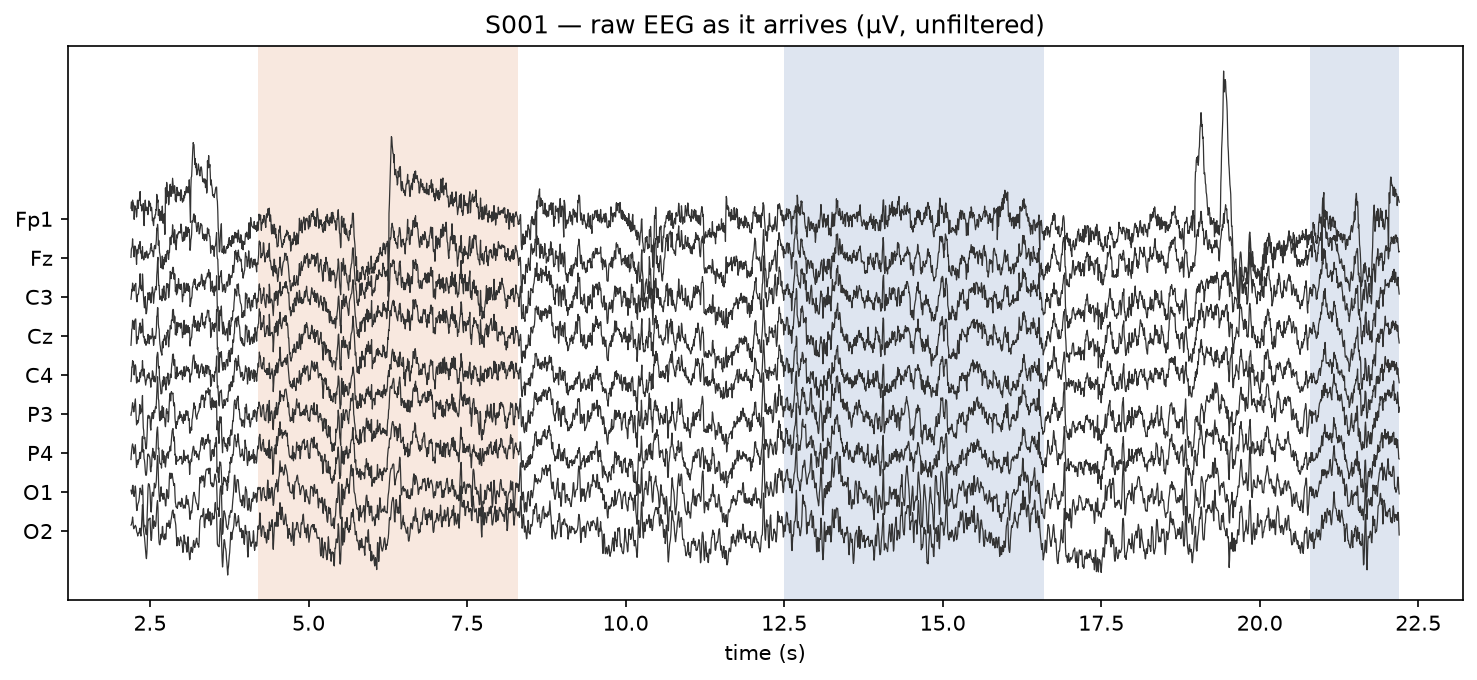
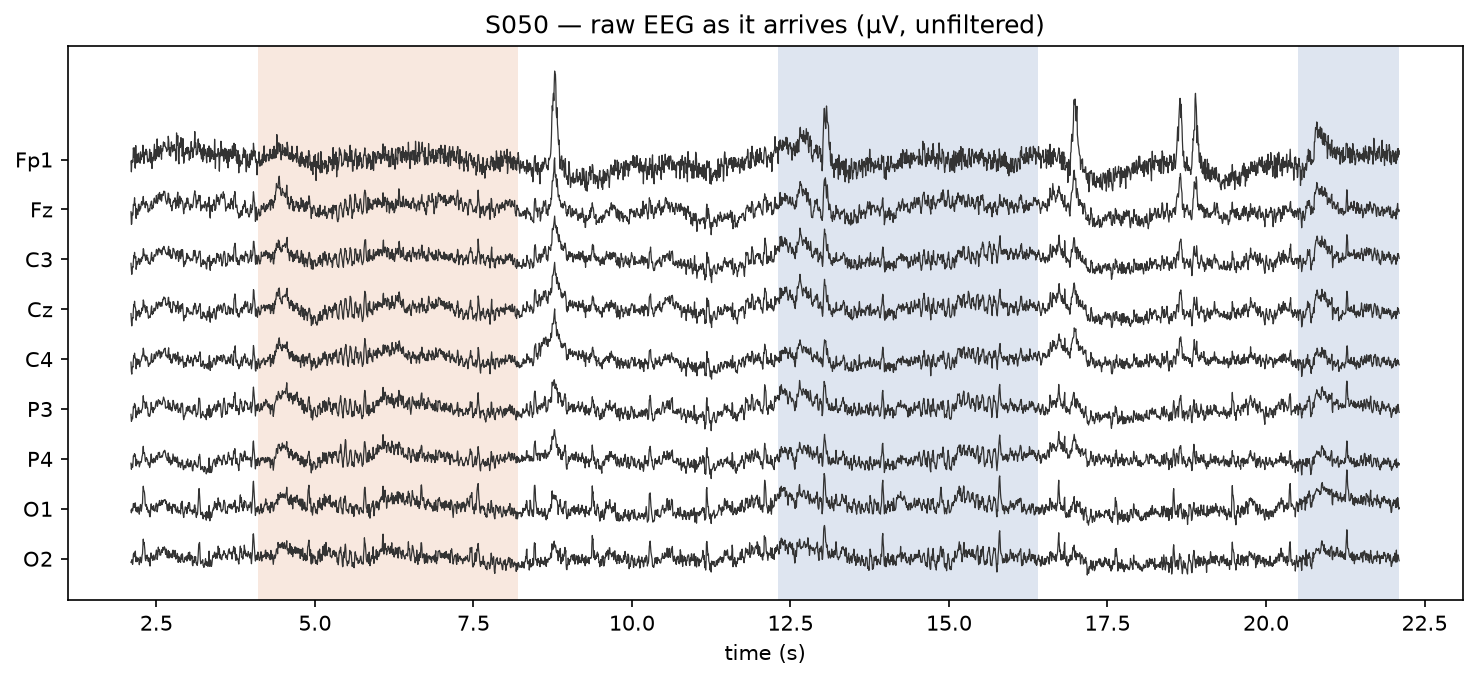
Exemplar consistency (S050, median performer) + working 05_figures full gallery rebuild

diff --git a/scripts/05_figures.py b/scripts/05_figures.py
@@ -1,8 +1,91 @@
 """Step 5 — regenerate the ENTIRE gallery (S0–S7) + GALLERY.md from caches/results.
 
-One command rebuilds every figure Nivi presents in the demo video.
-Usage: uv run python scripts/05_figures.py
-TODO(Phase A/B): call each viz.fig_s* as its stage lands.
+One command rebuilds every figure in results/figures/. Requires scripts 01–04 to
+have run (uses their caches and CSVs). Runtime ≈ 5 min (ERD grand average and the
+t-SNE dominate). Usage: uv run python scripts/05_figures.py
 """
 
-raise SystemExit("TODO: figures are generated per-phase; full rebuild lands in Phase C.")
+import sys
+from pathlib import Path
+
+sys.path.insert(0, str(Path(__file__).resolve().parents[1] / "src"))
+
+import joblib
+import mne
+import numpy as np
+import pandas as pd
+
+mne.set_log_level("ERROR")
+from pyriemann.tangentspace import TangentSpace
+from sklearn.decomposition import PCA
+from sklearn.manifold import TSNE
+
+from mi_decoding import config, data, evaluate, models, preprocess, viz
+from mi_decoding.features import trial_covariances
+
+say = lambda m: print(m, flush=True)
+
+# ── Shared inputs ─────────────────────────────────────────────────────────────
+im = preprocess.build_dataset(list(config.DEV), config.IMAGERY_RUNS)
+covs_im = trial_covariances(im["X"])
+audit = pd.read_csv(config.RESULTS_DIR / "audit_runs.csv")
+per_subj = pd.read_csv(config.RESULTS_DIR / "per_subject.csv")
+ladder = pd.read_csv(config.RESULTS_DIR / "ladder.csv")
+transfer = pd.read_csv(config.RESULTS_DIR / "transfer.csv")
+bundle = joblib.load(config.MODELS_DIR / "ts_logreg_cross_subject.joblib")
+s = config.EXEMPLAR_SUBJECT
+
+# ── S0–S3: exemplar-subject stages ────────────────────────────────────────────
+say(f"S0–S3 (exemplar S{s:03d}) …")
+raw = data.load_raw(s, config.IMAGERY_RUNS[0])
+mv = preprocess.model_view(raw)
+viz.fig_s0_raw(raw, s)
+viz.fig_s0_montage(raw)
+viz.fig_s2_filtering(raw, mv)
+ep_full = mne.concatenate_epochs(
+    [preprocess.epochs_from_raw(preprocess.model_view(data.load_raw(s, r)), r)
+     for r in config.IMAGERY_RUNS], verbose="ERROR")
+viz.fig_s3_epoching(mv, ep_full, s)
+
+# ── S1, S4: audit + cleaning stages ───────────────────────────────────────────
+say("S1, S4 …")
+viz.fig_s1_label_audit(audit[audit.cohort == "dev"])
+viz.fig_s4_rejection(im["meta"])
+
+# ── S5: ERD grand average, covariances, embedding ────────────────────────────
+say("S5 ERD grand average (all dev subjects) …")
+eps = [preprocess.epochs_from_raw(preprocess.inspect_view(data.load_raw(d, r)), r).pick(["C3", "C4"])
+       for d in config.DEV for r in config.IMAGERY_RUNS]
+ep_all = mne.concatenate_epochs(eps, verbose="ERROR")
+viz.fig_s5_erd(ep_all["left"], ep_all["right"], len(config.DEV))
+viz.fig_s5_covariances(covs_im, im["y"], bundle["ch_names"])
+
+say("S5 t-SNE embedding …")
+Z = TangentSpace(metric="riemann").fit(covs_im).transform(covs_im)
+xy = TSNE(n_components=2, perplexity=30, init="pca", random_state=config.SEED
+          ).fit_transform(PCA(50, random_state=config.SEED).fit_transform(Z))
+viz.fig_s5_embedding(xy, im["y"], im["subject"])
+
+# ── S6: what the models learned ───────────────────────────────────────────────
+say("S6 …")
+info = mv.info
+csp = models.make_csp_lda().named_steps["csp"]
+csp.fit(im["X"].astype(np.float64), im["y"])
+viz.fig_s6_csp_patterns(csp, info)
+W = np.abs(bundle["pipeline"].named_steps["clf"].coef_[0])
+iu = np.triu_indices(64)
+M = np.zeros((64, 64)); M[iu] = W; M = M + M.T
+viz.fig_s6_readout(M.sum(0), info)
+r1 = per_subj[(per_subj.rung == "1-within-subject") & (per_subj.model == "ts_logreg")
+              & (per_subj.task == "imagery")]
+r2 = per_subj[(per_subj.rung == "2-loso") & (per_subj.model == "ts_logreg")]
+half = 1.96 * np.sqrt(0.25 / r1.n.median())
+viz.fig_s6_per_subject(r1, r2, (0.5 - half, 0.5 + half))
+
+# ── S7: the evaluation story ──────────────────────────────────────────────────
+say("S7 …")
+viz.fig_s7_ladder(ladder)
+viz.fig_s7_transfer(transfer[transfer.rung == "8-transfer-exec-to-imag"],
+                    transfer[transfer.rung == "8-transfer-imag-to-exec"],
+                    r1.acc.mean(), r1.acc.std())
+say("gallery rebuilt → results/figures/ (index: GALLERY.md)")

diff --git a/src/mi_decoding/config.py b/src/mi_decoding/config.py
@@ -52,7 +52,7 @@ CH_FAULT_FRACTION = 0.5                  # channel alone rejecting >50% of a fil
 # ── Models / evaluation ──────────────────────────────────────────────────────
 N_CSP = 6                                # 3 filters per class
 SEED = 26
-EXEMPLAR_SUBJECT = 1                     # trace/single-trial figures; revisit after Phase A audit
+EXEMPLAR_SUBJECT = 50                    # median rung-1 performer (64.4%) — chosen to avoid cherry-picking
 
 # ── Holdout guard ────────────────────────────────────────────────────────────
 def assert_not_holdout(subjects, *, unlock_holdout: bool = False) -> None:

diff --git a/results/figures/GALLERY.md b/results/figures/GALLERY.md
@@ -34,6 +34,57 @@ Regenerate: `uv run python scripts/05_figures.py`
 
 **S4 — Cleaning.** Two levels, both label-free. (1) Repair: a channel that alone would reject most of a run is an electrode fault, not a trial problem — it gets interpolated from neighbors (9 run files needed this). (2) Reject: epochs where any remaining channel exceeds 500 µV peak-to-peak on the analysis window (left panel; right: per-subject drop rates, overall 2.72%). The threshold was revised once from artifact statistics after the initial 100 µV — calibrated to single-channel scale — rejected 75% of epochs; decoding results never influenced it. A with/without-rejection sensitivity check accompanies the model results.
 
+
+**S0 — What arrives.** Twenty seconds of raw EEG from 9 of the 64 channels. Shaded spans are the cue annotations embedded in the EDF (blue = left-fist cue, orange = right-fist cue; unshaded gaps = rest). Note the scale: tens of µV, dominated by slow drift and broadband noise — no class difference is visible to the eye. Everything downstream exists to change that.
+
+
+**S0 — Where the signal should live.** Sensor layout over the scalp (nose up). C3 sits over left motor cortex and C4 over right motor cortex. Because motor control is contralateral, imagining the LEFT hand should suppress rhythms at C4 (orange ↔ left class) and the RIGHT hand at C3 (blue ↔ right class) — the spatial hypothesis every later figure gets checked against.
+
+
+**S2 — Filtering.** Left: the average power spectrum. Raw EEG (grey) shows the 1/f drift ramp at low frequencies and the 60 Hz mains line. The 8–30 Hz band-pass (black) keeps exactly the mu (8–13 Hz) and beta (13–30 Hz) bands where motor imagery suppresses rhythmic power (ERD), and removes drift, blink energy (<4 Hz), most EMG, and line noise by construction. Right: the same C3 segment before/after — what remains is the band-limited oscillation whose per-trial power the models consume.
+
+
+**S3 — Epoching (S001, imagery runs).** Left: the continuous band-passed signal is cut into cue-locked windows; the analysis window [0.5, 3.5] s skips the cue-onset transient and stays inside the ~4.1 s trial. Middle/right: every extracted trial at C3 stacked as an image (one row = one trial). Single trials are dominated by trial-to-trial variability — no visible class difference at one electrode — which is exactly why the models pool spatial structure across all 64 channels.
+
+
+**S4 — Cleaning.** Two levels, both label-free. (1) Repair: a channel that alone would reject most of a run is an electrode fault, not a trial problem — it gets interpolated from neighbors (9 run files needed this). (2) Reject: epochs where any remaining channel exceeds 500 µV peak-to-peak on the analysis window (left panel; right: per-subject drop rates, overall 2.72%). The threshold was revised once from artifact statistics after the initial 100 µV — calibrated to single-channel scale — rejected 75% of epochs; decoding results never influenced it. A with/without-rejection sensitivity check accompanies the model results.
+
+
+**S1 — Label audit.** Left: every L/R-fist run carries ~15 cued trials with a ~8/7 class split (the imbalance is why balanced accuracy is reported too). Middle: task segments take exactly two durations, 4.088 or 4.100 s — a BCI2000 timing artifact, uniform across the pool. Right: per-subject class totals lie on an anti-diagonal (left + right ≈ 90 fixed trials), with the split ranging only 42–48 — mild, bounded imbalance and no class-skewed subjects.
+
+
+**S5 — The physiological signal itself.** Grand-average (20 dev subjects, imagery runs) time-frequency power at the two motor electrodes, as fractional change from the pre-cue baseline. Blue = the rhythm quieting (ERD). The diagnostic is the diagonal: imagining LEFT suppresses power at C4 (right hemisphere) more than C3, and imagining RIGHT does the opposite — the contralateral organization the classifiers exploit. This is what 'the signal' looks like before any model touches it.
+
+
+**S5 — What the main model actually sees.** Each trial is summarized as a 64×64 covariance matrix: diagonal = per-channel band power, off-diagonal = channel co-fluctuation. Left/middle: class means (dev pool, imagery). Right: their difference — the class information lives in a structured, low-amplitude pattern around the sensorimotor rows (C3/C4 marked). The tangent-space model reads exactly this object; CSP is a supervised 6-dimensional compression of it.
+
+
+**S5 — Who dominates the representation.** One point = one trial: the same t-SNE projection of the tangent-space vectors, colored two ways. Left: by imagined hand — classes are thoroughly mixed at the global scale. Right: by person — trials cluster into tight per-subject islands. The representation encodes WHO is being recorded far more strongly than WHAT they imagined; this is the geometric reason pooled-leaky evaluation inflates and cross-subject decoding is hard.
+
+
+**S6 — What the baseline model learned.** Forward-model patterns of the six CSP filters (fit on the dev pool, imagery). Patterns concentrating over the central sensorimotor region (around C3/C4) mean the filters read motor-cortex rhythms; patterns over eyes or temporal muscle would expose artifact decoding. This is the visual check that the decoder's evidence is physiological.
+
+
+**S6 — Where the main model puts its weight.** Heuristic saliency: total absolute logistic-regression weight on all covariance entries involving each channel (it aggregates a 2,080-dim linear readout to channel level, so it is indicative, not exact). Central concentration again argues for motor rhythms rather than artifacts as the evidence source.
+
+
+**S6 — The person, not just the task.** Each count is one subject's accuracy for the SAME model under two exams: trained on that person's other runs (blue) vs trained only on other people (orange). The wide spread is real inter-person variability ('BCI illiteracy': some subjects sit inside the gray chance band under both exams); the blue→orange shift is the personalization gap. With ~45 trials per subject, individual bars carry ±≈15% binomial uncertainty — population statements are safe, per-subject rankings are not.
+
+
+**S7 — The number depends on the exam.** Identical models, increasingly honest evaluations. The pooled random split (leftmost) mixes each person's trials across train/test — its score is inflated by subject identity and is shown only as the cautionary 'first number you see'. Within-subject is the personalized-BCI setting; LOSO is a brand-new person; re-centering adapts only the embedding reference using the new person's unlabeled data. Error bars: binomial 95% CIs.
+
+
+**S7 — Do the two tasks share a representation?** Within each subject, a model trained only on REAL movements and tested on IMAGINED ones (and the reverse), against the within-imagery reference. Above-chance transfer means executed and imagined movement modulate overlapping spatial patterns — evidence the decoder reads motor physiology rather than condition-specific quirks. Bars: mean ± SD across subjects.
+
+
+**S5 — The physiological signal itself.** Grand-average (83 dev subjects, imagery runs) time-frequency power at the two motor electrodes, as fractional change from the pre-cue baseline. Blue = the rhythm quieting (ERD). The diagnostic is the diagonal: imagining LEFT suppresses power at C4 (right hemisphere) more than C3, and imagining RIGHT does the opposite — the contralateral organization the classifiers exploit. This is what 'the signal' looks like before any model touches it. Third column: the left−right difference. At C3 the contrast is clear and sustained — more mu/beta suppression when imagining RIGHT, the contralateral prediction. At C4 the grand-average contrast is weak: a real hemispheric asymmetry (typical of right-hand-dominant populations; the dataset ships no handedness metadata), and one more reason per-subject variability is the story.
+
+
+**S6 — Where the main model puts its weight.** Heuristic saliency: total absolute logistic-regression weight on all covariance entries involving each channel, z-scored (aggregating a 2,080-dim readout to channel level after tangent-space whitening is indicative only — the CSP patterns are the rigorous spatial evidence). Central concentration argues for motor rhythms over artifacts.
+
+
+**S7 — Do the two tasks share a representation?** Within each subject, a model trained only on REAL movements and tested on IMAGINED ones (and the reverse), against the within-imagery reference. Above-chance transfer means executed and imagined movement modulate overlapping spatial patterns — evidence the decoder reads motor physiology rather than condition-specific quirks. Bars: mean ± SD across subjects.
+
 ### s0_raw_trace
 ![s0_raw_trace](s0_raw_trace.png)
 
@@ -52,20 +103,22 @@ Regenerate: `uv run python scripts/05_figures.py`
 ### s3_epoching
 ![s3_epoching](s3_epoching.png)
 
-**S3 — Epoching (S001, imagery runs).** Left: the continuous band-passed signal is cut into cue-locked windows; the analysis window [0.5, 3.5] s skips the cue-onset transient and stays inside the ~4.1 s trial. Middle/right: every extracted trial at C3 stacked as an image (one row = one trial). Single trials are dominated by trial-to-trial variability — no visible class difference at one electrode — which is exactly why the models pool spatial structure across all 64 channels.
-
-### s4_rejection
-![s4_rejection](s4_rejection.png)
-
-**S4 — Cleaning.** Two levels, both label-free. (1) Repair: a channel that alone would reject most of a run is an electrode fault, not a trial problem — it gets interpolated from neighbors (9 run files needed this). (2) Reject: epochs where any remaining channel exceeds 500 µV peak-to-peak on the analysis window (left panel; right: per-subject drop rates, overall 2.72%). The threshold was revised once from artifact statistics after the initial 100 µV — calibrated to single-channel scale — rejected 75% of epochs; decoding results never influenced it. A with/without-rejection sensitivity check accompanies the model results.
+**S3 — Epoching (S050, imagery runs).** Left: the continuous band-passed signal is cut into cue-locked windows; the analysis window [0.5, 3.5] s skips the cue-onset transient and stays inside the ~4.1 s trial. Middle/right: every extracted trial at C3 stacked as an image (one row = one trial). Single trials are dominated by trial-to-trial variability — no visible class difference at one electrode — which is exactly why the models pool spatial structure across all 64 channels.
 
 ### s1_label_audit
 ![s1_label_audit](s1_label_audit.png)
 
 **S1 — Label audit.** Left: every L/R-fist run carries ~15 cued trials with a ~8/7 class split (the imbalance is why balanced accuracy is reported too). Middle: task segments take exactly two durations, 4.088 or 4.100 s — a BCI2000 timing artifact, uniform across the pool. Right: per-subject class totals lie on an anti-diagonal (left + right ≈ 90 fixed trials), with the split ranging only 42–48 — mild, bounded imbalance and no class-skewed subjects.
 
+### s4_rejection
+![s4_rejection](s4_rejection.png)
 
-**S5 — The physiological signal itself.** Grand-average (20 dev subjects, imagery runs) time-frequency power at the two motor electrodes, as fractional change from the pre-cue baseline. Blue = the rhythm quieting (ERD). The diagnostic is the diagonal: imagining LEFT suppresses power at C4 (right hemisphere) more than C3, and imagining RIGHT does the opposite — the contralateral organization the classifiers exploit. This is what 'the signal' looks like before any model touches it.
+**S4 — Cleaning.** Two levels, both label-free. (1) Repair: a channel that alone would reject most of a run is an electrode fault, not a trial problem — it gets interpolated from neighbors (9 run files needed this). (2) Reject: epochs where any remaining channel exceeds 500 µV peak-to-peak on the analysis window (left panel; right: per-subject drop rates, overall 2.72%). The threshold was revised once from artifact statistics after the initial 100 µV — calibrated to single-channel scale — rejected 75% of epochs; decoding results never influenced it. A with/without-rejection sensitivity check accompanies the model results.
+
+### s5_erd
+![s5_erd](s5_erd.png)
+
+**S5 — The physiological signal itself.** Grand-average (83 dev subjects, imagery runs) time-frequency power at the two motor electrodes, as fractional change from the pre-cue baseline. Blue = the rhythm quieting (ERD). The diagnostic is the diagonal: imagining LEFT suppresses power at C4 (right hemisphere) more than C3, and imagining RIGHT does the opposite — the contralateral organization the classifiers exploit. This is what 'the signal' looks like before any model touches it. Third column: the left−right difference. At C3 the contrast is clear and sustained — more mu/beta suppression when imagining RIGHT, the contralateral prediction. At C4 the grand-average contrast is weak: a real hemispheric asymmetry (typical of right-hand-dominant populations; the dataset ships no handedness metadata), and one more reason per-subject variability is the story.
 
 ### s5_covariances
 ![s5_covariances](s5_covariances.png)
@@ -82,8 +135,10 @@ Regenerate: `uv run python scripts/05_figures.py`
 
 **S6 — What the baseline model learned.** Forward-model patterns of the six CSP filters (fit on the dev pool, imagery). Patterns concentrating over the central sensorimotor region (around C3/C4) mean the filters read motor-cortex rhythms; patterns over eyes or temporal muscle would expose artifact decoding. This is the visual check that the decoder's evidence is physiological.
 
+### s6_readout_saliency
+![s6_readout_saliency](s6_readout_saliency.png)
 
-**S6 — Where the main model puts its weight.** Heuristic saliency: total absolute logistic-regression weight on all covariance entries involving each channel (it aggregates a 2,080-dim linear readout to channel level, so it is indicative, not exact). Central concentration again argues for motor rhythms rather than artifacts as the evidence source.
+**S6 — Where the main model puts its weight.** Heuristic saliency: total absolute logistic-regression weight on all covariance entries involving each channel, z-scored (aggregating a 2,080-dim readout to channel level after tangent-space whitening is indicative only — the CSP patterns are the rigorous spatial evidence). Central concentration argues for motor rhythms over artifacts.
 
 ### s6_per_subject
 ![s6_per_subject](s6_per_subject.png)
@@ -94,19 +149,6 @@ Regenerate: `uv run python scripts/05_figures.py`
 ![s7_ladder](s7_ladder.png)
 
 **S7 — The number depends on the exam.** Identical models, increasingly honest evaluations. The pooled random split (leftmost) mixes each person's trials across train/test — its score is inflated by subject identity and is shown only as the cautionary 'first number you see'. Within-subject is the personalized-BCI setting; LOSO is a brand-new person; re-centering adapts only the embedding reference using the new person's unlabeled data. Error bars: binomial 95% CIs.
-
-
-**S7 — Do the two tasks share a representation?** Within each subject, a model trained only on REAL movements and tested on IMAGINED ones (and the reverse), against the within-imagery reference. Above-chance transfer means executed and imagined movement modulate overlapping spatial patterns — evidence the decoder reads motor physiology rather than condition-specific quirks. Bars: mean ± SD across subjects.
-
-### s5_erd
-![s5_erd](s5_erd.png)
-
-**S5 — The physiological signal itself.** Grand-average (83 dev subjects, imagery runs) time-frequency power at the two motor electrodes, as fractional change from the pre-cue baseline. Blue = the rhythm quieting (ERD). The diagnostic is the diagonal: imagining LEFT suppresses power at C4 (right hemisphere) more than C3, and imagining RIGHT does the opposite — the contralateral organization the classifiers exploit. This is what 'the signal' looks like before any model touches it. Third column: the left−right difference. At C3 the contrast is clear and sustained — more mu/beta suppression when imagining RIGHT, the contralateral prediction. At C4 the grand-average contrast is weak: a real hemispheric asymmetry (typical of right-hand-dominant populations; the dataset ships no handedness metadata), and one more reason per-subject variability is the story.
-
-### s6_readout_saliency
-![s6_readout_saliency](s6_readout_saliency.png)
-
-**S6 — Where the main model puts its weight.** Heuristic saliency: total absolute logistic-regression weight on all covariance entries involving each channel, z-scored (aggregating a 2,080-dim readout to channel level after tangent-space whitening is indicative only — the CSP patterns are the rigorous spatial evidence). Central concentration argues for motor rhythms over artifacts.
 
 ### s7_transfer
 ![s7_transfer](s7_transfer.png)
